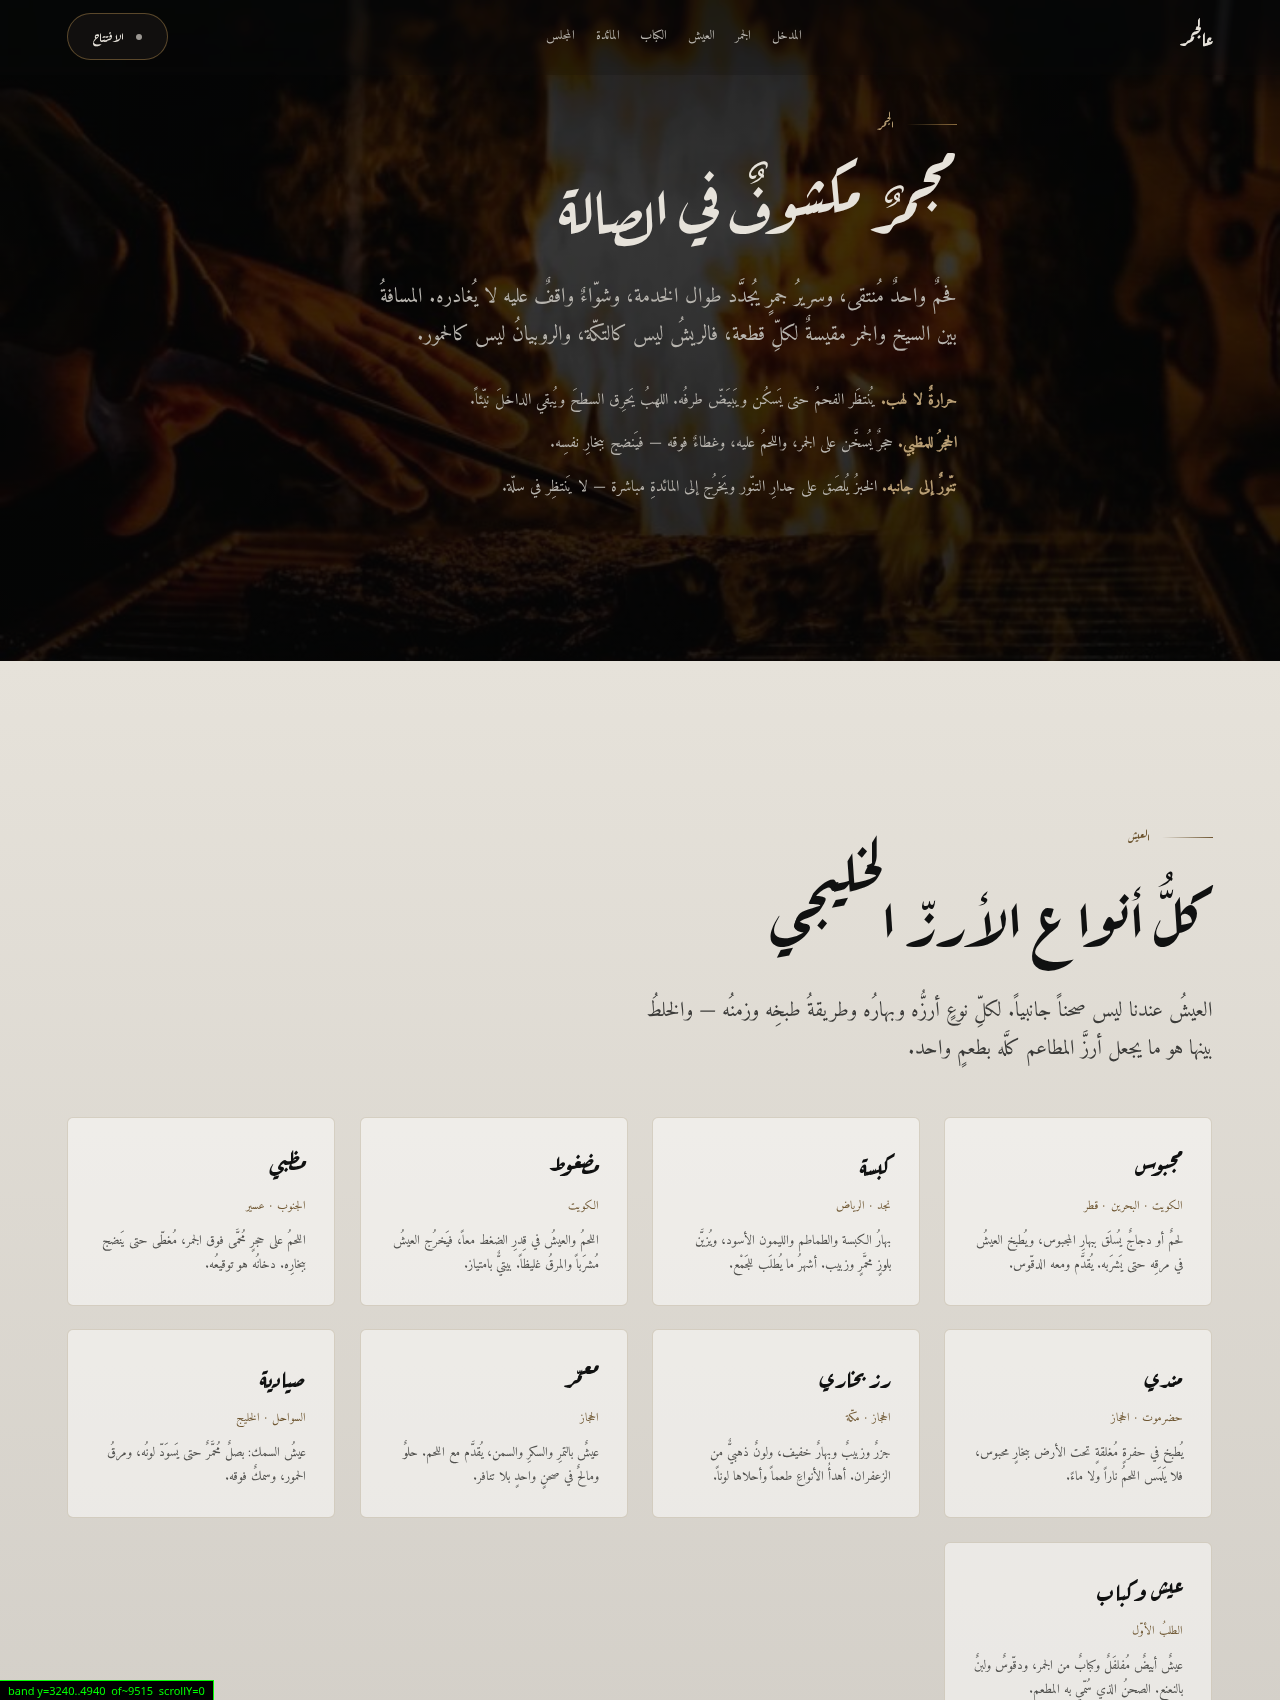
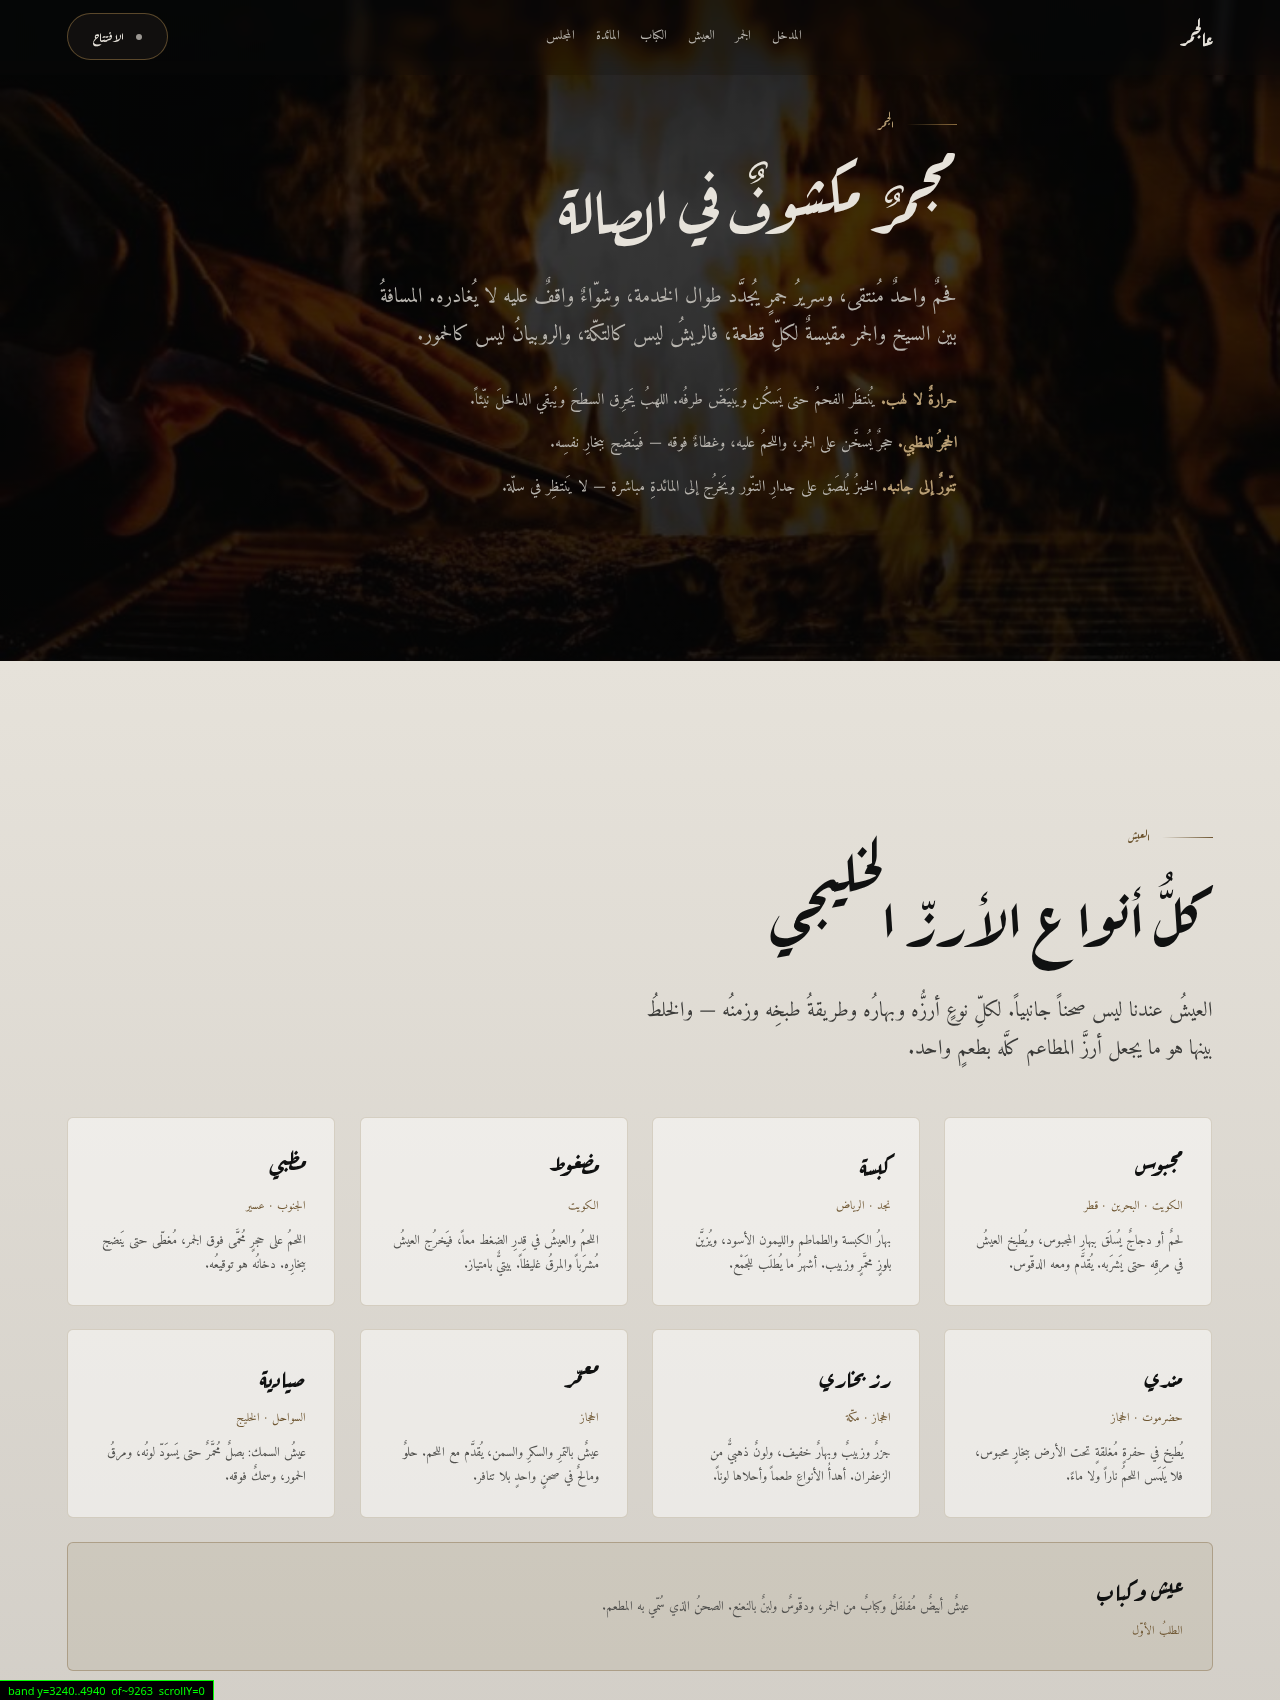
بطاقتان يتيمتان وبيانُ حقوقٍ صار كاذباً — أظهرَها عرضُ الصفحةِ متّصلةً
ثلاثةُ أعطالٍ **لم تُظهرها لقطاتُ الأقسامِ المعزولةِ ولا أيُّ حارس**،
وظهرت الثلاثةُ في أوّلِ مرّةٍ عُرضت الصفحةُ متّصلةً شريطاً شريطاً:

1. **بطاقةُ «عيش وكباب» يتيمةٌ وفراغٌ عريضٌ بعدها**: تسعُ بطاقاتٍ في
   شبكةٍ تَحسِب أعمدتَها تلقائياً = 4+4+**1**. والعزلُ لا يُظهره لأنّه
   فراغٌ عند حدِّ صفٍّ لا عطلٌ داخلَ عنصر. وهي أحقُّ البطاقاتِ بالإبراز:
   نصُّها «الصحنُ الذي سُمّي به المطعم» ⇒ صارت صفّاً كاملاً موسوماً
   بالذهبيِّ بـ`grid-column: 1 / -1` (تصحُّ مهما كان عددُ الأعمدة)
2. **«الحلو والقهوة» عمودٌ يتيمٌ وثلثا العرضِ فراغٌ أسود**: أربعُ بطاقاتٍ
   في ثلاثةِ أعمدةٍ = 3+1. **وهو نفسُ العطلِ الأوّلِ في موضعٍ آخر** —
   فبعد إصلاحِ الأوّلِ بُحث عن كلِّ شبكةٍ عددُها لا يقبل القسمةَ على
   أعمدتِها فوُجد. أصنافُه تتوزّع أعمدةً الآن
3. **والأخطرُ: التذييلُ كان يقول «لا صورَ ولا أعمالَ فنّيّةَ غيرِنا»** —
   وكان صحيحاً يومَ كان الموقعُ رسومَ SVG كلَّه، ثمّ دخلت أربعُ صورٍ
   للمالكِ في الدفعةِ السابقةِ ولم يُصحَّح السطر. **فصار الموقعُ يَنفي
   عن نفسِه ما فيه.** وبيانُ حقوقٍ يَكذِب — ولو تحفُّظاً — أسوأُ من
   غيابِه لأنّه بعينُه ما يُقرأ عند النزاع. صار: الصورُ للمالك، وما
   عداها مرسومٌ خصّيصاً، ولا أصولَ لطرفٍ ثالث

والدرسُ المنهجيّ: **العزلُ يُظهر القسمَ، والأشرطةُ تُظهر ما بين الأقسامِ
وحدودَ الصفوف — وكلاهما لازمٌ ولا يُغني عن الآخر.** وثلاثةُ أعطالٍ من
ثلاثةٍ كانت في الفراغاتِ والحدودِ لا في العناصر.

bash verify.sh ⇒ 12 مجموعةً خضراء · والصفحةُ 9263 بكسلاً بعد أن كانت 9515.

Changed region(s): [[0.7188, 0.9041, 0.9688, 1.0]]

diff --git a/index.html b/index.html
@@ -22,16 +22,16 @@
      إلى Google، ولا تنكسر الكتابةُ إن حُجب، ويُحمَّل الخطُّ من نفسِ
      الخادم. ورخصةُ OFL تشترط إرفاقَ نصِّها — وهو في assets/fonts/.
      وتُحمَّل الخطوطُ مُسبَقاً لأنّ العنوانَ أوّلُ ما يُرى. -->
-<link rel="preload" href="assets/fonts/ArefRuqaa-Regular.ttf?v=8" as="font" type="font/ttf" crossorigin>
-<link rel="preload" href="assets/fonts/Amiri-Regular.ttf?v=8" as="font" type="font/ttf" crossorigin>
+<link rel="preload" href="assets/fonts/ArefRuqaa-Regular.ttf?v=11" as="font" type="font/ttf" crossorigin>
+<link rel="preload" href="assets/fonts/Amiri-Regular.ttf?v=11" as="font" type="font/ttf" crossorigin>
 
 <!-- ترتيب التحميل مقصود: tokens ← base ← ember ← sections
      وأرقام الإصدار ?v=N تُزاد في كل دفعة — العميل رأى نسخاً قديمة
      ثلاث مرّات في مشروع سابق. -->
-<link rel="stylesheet" href="assets/tokens.css?v=8">
-<link rel="stylesheet" href="assets/base.css?v=8">
-<link rel="stylesheet" href="assets/ember.css?v=8">
-<link rel="stylesheet" href="assets/sections.css?v=8">
+<link rel="stylesheet" href="assets/tokens.css?v=11">
+<link rel="stylesheet" href="assets/base.css?v=11">
+<link rel="stylesheet" href="assets/ember.css?v=11">
+<link rel="stylesheet" href="assets/sections.css?v=11">
 </head>
 <body>
 
@@ -275,7 +275,7 @@
         <p class="rice__desc">عيشُ السمك: بصلٌ مُحمَّرٌ حتى يَسوَدّ لونُه، ومرقُ الحمور، وسمكٌ فوقه.</p>
       </article>
 
-      <article class="rice" data-reveal>
+      <article class="rice rice--signature" data-reveal>
         <h3 class="rice__name">عيش وكباب</h3>
         <p class="rice__origin">الطلبُ الأوّل</p>
         <p class="rice__desc">عيشٌ أبيضٌ مُفلفَلٌ وكبابٌ من الجمر، ودقّوسٌ ولبنٌ بالنعنع. الصحنُ الذي سُمّي به المطعم.</p>
@@ -374,7 +374,7 @@
         </ul>
       </section>
 
-      <section class="menu-card" data-reveal>
+      <section class="menu-card menu-card--wide" data-reveal>
         <h3 class="menu-card__head">الحلو والقهوة
         </h3>
         <ul class="menu-list">
@@ -492,12 +492,18 @@
     </a>
     <p class="foot__meta">
       مطعمٌ خليجي · مشاوي وعيش · يُفتتح قريباً<br>
-      جميعُ رسومِ هذا الموقعِ مرسومةٌ خصّيصاً له — لا صورَ ولا أعمالَ فنّيّةَ غيرِنا.<br>
+      <!-- كان مكتوباً هنا «لا صورَ ولا أعمالَ فنّيّةَ غيرِنا»، وكان صحيحاً
+           يومَ كان الموقعُ رسومَ SVG كلَّه. ثمّ دخلت **أربعُ صورٍ للمالك**
+           في الدفعةِ السابقةِ ولم يُصحَّح السطر، فصار الموقعُ **يَنفي عن
+           نفسِه ما فيه**. وبيانٌ عن الحقوقِ يَكذِب — ولو في اتّجاهِ
+           التحفُّظ — أسوأُ من غيابِه، لأنّه بعينُه ما يُقرأ عند النزاع.
+           فيُقال ما هو: الصورُ للمالكِ، والرسمُ لنا، ولا أصلَ لطرفٍ ثالث. -->
+      الصورُ للمالك، وما عداها مرسومٌ خصّيصاً لهذا الموقع — لا أصولَ لطرفٍ ثالثٍ فيه.<br>
       <span data-year>2026</span> — نسخةُ عرضٍ أوّليّة
     </p>
   </div>
 </footer>
 
-<script defer src="assets/app.js?v=8"></script>
+<script defer src="assets/app.js?v=11"></script>
 </body>
 </html>

diff --git a/assets/sections.css b/assets/sections.css
@@ -387,6 +387,50 @@
   box-shadow: 0 20px 44px -26px rgba(60, 42, 20, 0.5);
 }
 
+/* ---- الطلبُ الأوّل: صفٌّ كاملٌ لا بطاقةٌ يتيمة ----
+   العطل: تسعُ بطاقاتٍ في شبكةٍ تَحسِب أعمدتَها تلقائياً (`auto-fit`)
+   تُنتج 4+4+**1**، فتبقى التاسعةُ وحدَها ويبقى بعدها فراغٌ عريضٌ من
+   الكريميِّ بلا شيء. **ولم تُظهره لقطةُ القسمِ المعزول** لأنّه فراغٌ
+   عند حدِّ صفٍّ لا عطلٌ داخلَ عنصر — أظهره شريطُ الصفحةِ المتّصلُ
+   الرابع (`docs/preview/v8/site/band-04.png`). فالعزلُ يُظهر القسمَ،
+   والأشرطةُ تُظهر **ما بين** الأقسامِ وحدودَ الصفوف، وكلاهما لازم.
+
+   و`grid-column: 1 / -1` تمتدُّ على كلِّ الأعمدةِ **مهما كان عددُها**،
+   فتصحُّ على كلِّ عرضٍ بلا رقمٍ مكتوبٍ يَكذِب عند عرضٍ آخر.
+
+   وهي أصدقُ موضعاً أيضاً: هذه البطاقةُ نصُّها «الصحنُ الذي سُمّي به
+   المطعم» — فلا تكون ذيلاً لثمانيةٍ قبلها. */
+.rice--signature {
+  grid-column: 1 / -1;
+  background: rgba(125, 98, 56, 0.09);
+  border-color: rgba(125, 98, 56, 0.4);
+}
+
+@media (min-width: 46rem) {
+  .rice--signature {
+    grid-template-columns: minmax(11rem, auto) 1fr;
+    column-gap: clamp(var(--sp-5), 3vw, var(--sp-7));
+  }
+
+  .rice--signature .rice__name {
+    grid-column: 1;
+    grid-row: 1;
+  }
+
+  .rice--signature .rice__origin {
+    grid-column: 1;
+    grid-row: 2;
+  }
+
+  /* الوصفُ يَشغَل العمودَ الثانيَ على السطرَين، فيبقى الصفُّ منخفضاً
+     ولا يتمدّد فراغاً تحتَ اسمٍ من كلمتين. */
+  .rice--signature .rice__desc {
+    grid-column: 2;
+    grid-row: 1 / 3;
+    align-self: center;
+  }
+}
+
 .rice__mark {
   inline-size: 2.6rem;
   block-size: 2.6rem;
@@ -518,9 +562,29 @@
   color: var(--glow);
 }
 
+/* ---- «الحلو والقهوة»: صفٌّ كاملٌ لا عمودٌ يتيم ----
+   **نفسُ عطلِ بطاقةِ العيشِ اليتيمةِ بعينِه في موضعٍ آخر**: أربعُ
+   بطاقاتٍ في شبكةٍ تَحسِب أعمدتَها تلقائياً تُنتج 3+1، فيبقى
+   «الحلو والقهوة» عموداً وحدَه ويبقى **ثلثا العرضِ فراغاً أسودَ**
+   بارتفاعِ قائمتِه كلِّها. أظهره شريطُ الصفحةِ الخامس.
+   وهذا تطبيقٌ للقاعدة: إصلاحُ موضعٍ من عطلٍ لا يُصلح أخواتَه — فبعد
+   إصلاحِ شبكةِ العيشِ بُحث عن كلِّ شبكةٍ `auto-fit` فيها عددٌ لا
+   يقبل القسمةَ على أعمدتِها، فوُجدت هذه. */
+.menu-card--wide {
+  grid-column: 1 / -1;
+}
+
 .menu-list {
   display: grid;
   gap: var(--sp-3);
+}
+
+@media (min-width: 46rem) {
+  /* أصنافُ الحلوِ والقهوةِ تتوزّع أعمدةً بدلَ عمودٍ واحدٍ طويل */
+  .menu-card--wide .menu-list {
+    grid-template-columns: repeat(auto-fit, minmax(min(100%, 17rem), 1fr));
+    column-gap: clamp(var(--sp-6), 5vw, var(--sp-8));
+  }
 }
 
 .menu-item {
